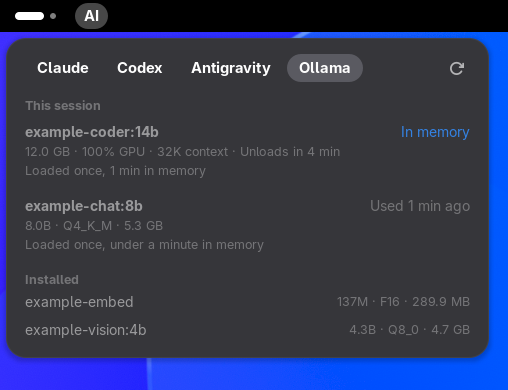
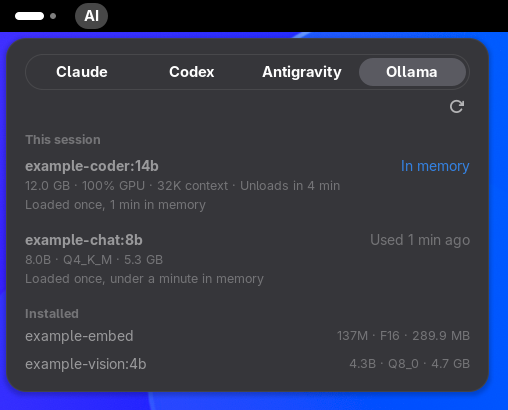
Provider tabs as an equal-width pill, with refresh on the line below
The tabs share the row at equal widths inside an outlined pill with no
fill, the open one still the shell's checked flat button. The plan and
refresh share the line under them. The shots' tab points and the Ollama
crop follow, and the pop-up screenshots are retaken.

Fixes #203

diff --git a/src/lib/indicator.js b/src/lib/indicator.js
@@ -64,7 +64,14 @@ class UsageIndicator extends PanelMenu.Button {
         this._tabIds = '';
 
         this._tabs = new St.BoxLayout({style_class: 'ai-usage-tabs', x_expand: true});
-        this._tabsItem = tabsItem(this._tabs, refresh);
+        this._tabs.layout_manager.homogeneous = true;
+        this._plan = new St.Label({
+            style_class: 'ai-usage-caption',
+            x_expand: true,
+            y_align: Clutter.ActorAlign.CENTER,
+            opacity: DIM_OPACITY,
+        });
+        this._tabsItem = tabsItem(this._tabs, this._plan, refresh);
         this._section = new PopupMenu.PopupMenuSection();
         this.menu.addMenuItem(this._tabsItem);
         this.menu.addMenuItem(this._section);
@@ -122,7 +129,12 @@ class UsageIndicator extends PanelMenu.Button {
             this._tabIds = ids;
             this._tabs.destroy_all_children();
             for (const row of this._rows) {
-                const tab = new St.Button({label: row.name, style_class: 'button flat ai-usage-tab', can_focus: true});
+                const tab = new St.Button({
+                    label: row.name,
+                    style_class: 'button flat ai-usage-tab',
+                    can_focus: true,
+                    x_expand: true,
+                });
                 tab.connect('clicked', () => this._select(row.id));
                 this._tabs.add_child(tab);
             }
@@ -138,6 +150,7 @@ class UsageIndicator extends PanelMenu.Button {
         this._section.removeAll();
 
         const {reading} = this._selected;
+        this._plan.text = reading?.plan ?? '';
         if (reading)
             this._addReading(reading, this._options);
         else
@@ -147,12 +160,6 @@ class UsageIndicator extends PanelMenu.Button {
     }
 
     _addReading(reading, {resetFormat, clock}) {
-        if (reading.plan) {
-            const plan = captionItem(reading.plan);
-            plan.add_style_class_name('ai-usage-plan');
-            this._section.addMenuItem(plan);
-        }
-
         if (!reading.ok) {
             this._section.addMenuItem(captionItem(explain(reading, clock)));
             return;
@@ -230,13 +237,22 @@ function inertItem(styleClass) {
     return new PopupMenu.PopupBaseMenuItem({reactive: false, can_focus: false, style_class: styleClass});
 }
 
-function tabsItem(tabs, refresh) {
+// The tabs across the top, the plan and refresh on the line below.
+function tabsItem(tabs, plan, refresh) {
     const item = inertItem('ai-usage-tabs-row');
-    const row = new St.BoxLayout({style_class: 'ai-usage-tabs-box', x_expand: true});
-    row.add_child(tabs);
-    row.add_child(refreshButton(refresh));
+    const column = new St.BoxLayout({
+        style_class: 'ai-usage-tabs-box',
+        orientation: Clutter.Orientation.VERTICAL,
+        x_expand: true,
+    });
+    column.add_child(tabs);
 
-    item.add_child(row);
+    const line = new St.BoxLayout({x_expand: true});
+    line.add_child(plan);
+    line.add_child(refreshButton(refresh));
+    column.add_child(line);
+
+    item.add_child(column);
     return item;
 }
 

diff --git a/src/stylesheet.css b/src/stylesheet.css
@@ -27,14 +27,18 @@
 }
 
 .ai-usage-tabs-box {
-    spacing: 8px;
+    spacing: 6px;
 }
 
+/* A pill around equal tabs, outlined in the bar track's grey, with no fill of its own. */
 .ai-usage-tabs {
-    spacing: 4px;
+    border: 1px solid rgba(127, 127, 127, 0.25);
+    border-radius: 999px;
+    padding: 3px;
+    spacing: 3px;
 }
 
-/* The shell's flat button, whose :checked look marks the open tab; a pill, as the icon buttons beside it. */
+/* The shell's flat button, whose :checked look marks the open tab. */
 .ai-usage-tab {
     border-radius: 999px;
     padding: 3px 12px;
@@ -134,11 +138,6 @@
 
 .ai-usage-installed-label {
     font-size: 0.95em;
-}
-
-/* The plan under a tab, or at the top when the tabs are at the bottom. */
-.ai-usage-plan {
-    padding-top: 6px;
 }
 
 /* With .popup-menu-content's 6px, the sides' 18px. Last, to outweigh the row's own padding. */

diff --git a/.claude/rules/popup.md b/.claude/rules/popup.md
@@ -9,16 +9,17 @@ paths:
 * The pop-up's rows copy Claude Code's `/usage`: name (the one expanding column),
   dimmed reset, percentage in a fixed `min-width` cell, bar underneath. A tab row
   (top or bottom, `moveMenuItem()` in `setReadings()`) holds the providers as the
-  shell's `button flat`, whose `:checked` look marks the open one, and refresh as
-  the shell's `icon-button flat` at its right end, dimmed on the icon (not the
-  button, or the hover background dims too) and lit on hover/focus by
-  `refreshButton()`. A click on a tab only writes `selected-provider`; everything
-  redraws from the setting. The tabs are rebuilt only when the providers shown change,
-  so a redraw does not take the keyboard focus off one.
+  shell's `button flat`, whose `:checked` look marks the open one, at equal widths
+  (the box's `homogeneous`) inside an outlined pill with no fill. The line below it
+  holds the selected plan, dimmed, and refresh as the shell's `icon-button flat` at
+  its right end, dimmed on the icon (not the button, or the hover background dims
+  too) and lit on hover/focus by `refreshButton()`. A click on a tab only writes
+  `selected-provider`; everything redraws from the setting. The tabs are rebuilt
+  only when the providers shown change, so a redraw does not take the keyboard
+  focus off one.
 * The menu has a fixed `width`, wide enough for the longest label, so
-  it does not move when another tab is chosen. The plan is a dimmed caption row
-  above the limits. A limit with a `group` (Antigravity's window) gets a dimmed
-  heading row above the first of its run, and its own label names only the rest.
+  it does not move when another tab is chosen. A limit with a `group`
+  (Antigravity's window) gets a dimmed heading row above the first of its run, and its own label names only the rest.
 * The bars are the shell's `BarLevel`, drawn from `-barlevel-*` properties on
   `.ai-usage-bar` and its severity class. It reads `-barlevel-overdrive-color`
   too, so that is set though never drawn. A row whose `percent` is null (credits
@@ -34,8 +35,8 @@ paths:
 * The last pop-up row is marked `ai-usage-last` by `_renderMenu()`, for want of
   `:last-child`.
 * Dimming is actor opacity (`DIM_OPACITY`).
-* **Its exception to the kit's colour rule**: the bar track's mid grey and
-  GNOME's own warning/critical palette (Yellow 5 `#e5a50a`, Red 4 `#e01b24`) are
+* **Its exception to the kit's colour rule**: the bar track's mid grey (also the
+  tab pill's outline) and GNOME's own warning/critical palette (Yellow 5 `#e5a50a`, Red 4 `#e01b24`) are
   the only flat colours, since St names no warning colour. A normal bar is
   `-st-accent-color`. No foreground colour is hardcoded.
 * Paddings are px measured from the shell's own theme (`.popup-menu-item`,

diff --git a/.claude/skills/drive-extension/SKILL.md b/.claude/skills/drive-extension/SKILL.md
@@ -40,7 +40,7 @@ steps and its settings are there. This is what is particular to AI Usage.
   org.gnome.shell.extensions.ai-usage tab-position bottom`. The preferences:
   `./scripts/nested.sh run gnome-extensions prefs ai-usage@jackicus`, then `do "window FILE"`.
 
-- **The Ollama tab** is the fourth, about (324, 68) once the pop-up is open. Its
+- **The Ollama tab** is the fourth, about (413, 72) once the pop-up is open. Its
   stand-in has four models: `example-coder:14b` in memory throughout, and
   `example-chat:8b` in memory only for the first 20 s after each enable or reload,
   so it shows as used earlier. Its session figures go to the real
